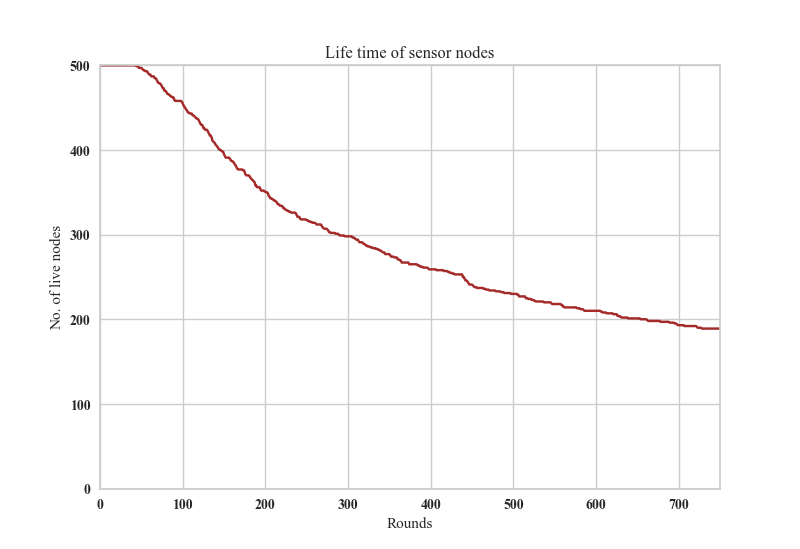
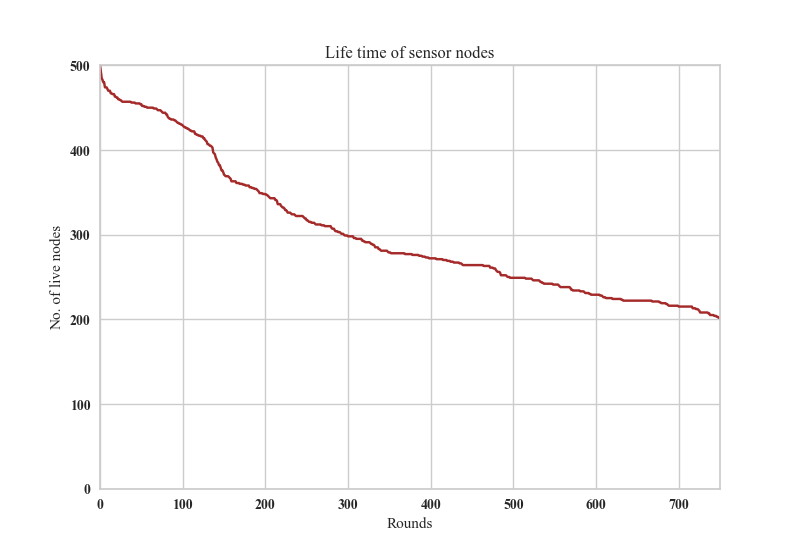
tests 1 complete

diff --git a/src/LEACH.py b/src/LEACH.py
@@ -43,7 +43,7 @@ avg_e2edelay_md = []
 
 class LEACHSimulation:
 
-    def __init__(self, n=500):
+    def __init__(self, n=1000):
         self.n = n  # Number of Nodes in the field
 
         self.dead_num = 0  # Number of dead nodes
@@ -130,7 +130,7 @@ class LEACHSimulation:
         self.avg_e2edelay[0] = self.avg_e2edelay[1]
         plt.xlim(left=0, right=self.my_model.rmax)
         plt.ylim(bottom=0, top=1.5)
-        plt.plot(self.avg_e2edelay, color="olive")
+        plt.plot(self.avg_e2edelay, color="brown")
         plt.title(
             "Average End-to-End Delay (Per Round)",
         )
@@ -208,21 +208,21 @@ class LEACHSimulation:
         z_vals = z_vals[: -self.my_model.num_sinks]
 
         ax.scatter(x_vals, y_vals, z_vals, c="b", marker="o", label="Nodes")
-        # ax.scatter(x_vals_ch, y_vals_ch, z_vals_ch, c="olive", marker="x", label="CHs")
+        # ax.scatter(x_vals_ch, y_vals_ch, z_vals_ch, c="brown", marker="x", label="CHs")
 
-        # Plot olive planes at specified heights
+        # Plot brown planes at specified heights
         for height in self.layer_heights:
             x_plane = np.linspace(min(x_vals), max(x_vals), 100)
             y_plane = np.linspace(min(y_vals), max(y_vals), 100)
             x_plane, y_plane = np.meshgrid(x_plane, y_plane)
             z_plane = np.full_like(x_plane, height)
-            ax.plot_surface(x_plane, y_plane, z_plane, alpha=0.1, color="olive")
+            ax.plot_surface(x_plane, y_plane, z_plane, alpha=0.1, color="brown")
 
         ax.scatter(
             sink_x_vals,
             sink_y_vals,
             sink_z_vals,
-            c="olive",
+            c="brown",
             marker="^",
             label="Sink Nodes",
         )
@@ -514,7 +514,7 @@ class LEACHSimulation:
 
                     # nearest_receiver = self.find_valid_receiver_5(sender)
                     # nearest_receiver = self.find_nearest_sink(sender)
-                    nearest_receiver = self.find_valid_receiver_7(sender)
+                    nearest_receiver = self.find_valid_receiver_2(sender)
                     self.rcd_sink[round_number] += 1
 
                     # print("Nearest receiver:", nearest_receiver)
@@ -1075,18 +1075,18 @@ class LEACHSimulation:
             node
             for node in self.Sensors
             if node.zd >= sender.zd
-            and node.type == "C"
+            and node.type == "N"
             and node.id != sender.id
-            and node.layer_number == sender.layer_number + 1
+            and node.zd >= sender.zd 
             and node.E > 0
         ]
 
         # Implement Selction Function
         optimal_receiver = None
         min_value = float("inf")  # Initialize with infinity
-        alpha = 1
-        beta = 0.0
-        gamma = 0.0
+        alpha = 0.0
+        beta = 0.5
+        gamma = 0.5
         base_distance = self.my_model.z * sqrt(3) / 5
         for receiver in receivers:
             depth_diff = abs(sender.zd - receiver.zd) / abs(self.my_model.z)
@@ -1112,8 +1112,7 @@ class LEACHSimulation:
         receivers = [
             node
             for node in self.Sensors
-            if node.hop_count < sender.hop_count
-            and node.type == "C"
+            if  node.type == "N"
             and node.id != sender.id
             and node.zd > sender.zd
             and node.E > 0
@@ -1147,7 +1146,7 @@ class LEACHSimulation:
             node
             for node in self.Sensors
             if node.hop_count == sender.hop_count
-            and node.type == "C"
+            and node.type == "N"
             and node.id != sender.id
             and node.zd > sender.zd
             and node.E > 0

diff --git a/comp_graph.py b/comp_graph.py
@@ -1,0 +1,84 @@
+import matplotlib.pyplot as plt
+plt.rcParams['font.family'] = 'Times New Roman'
+plt.rcParams['font.weight'] = 'bold'
+# Data for dead nodes
+nodes = [250, 500, 750, 1000]
+dead_EECRAP = [85, 132, 153, 272]
+dead_Mine_MOT = [42, 42, 44, 45]
+dead_EEGNBR = [62, 143, 178, 231]
+dead_DVOR = [65, 216, 337, 374]
+dead_DBR = [146, 311, 322, 452]
+
+plt.figure(figsize=(10, 6))
+
+plt.plot(nodes, dead_EECRAP, marker='o', label='EECRAP')
+plt.plot(nodes, dead_Mine_MOT, marker='o', label='My Algo')
+plt.plot(nodes, dead_EEGNBR, marker='o', label='EEGNBR')
+plt.plot(nodes, dead_DVOR, marker='o', label='DVOR')
+plt.plot(nodes, dead_DBR, marker='o', label='DBR')
+
+plt.title('Dead Nodes vs. Number of Total Nodes')
+plt.xlabel('Number of Total Nodes')
+plt.ylabel('Dead Nodes')
+plt.grid(True)
+plt.legend()
+plt.xticks(nodes)
+
+# Adding data points
+for i in range(len(nodes)):
+    plt.text(nodes[i], dead_EECRAP[i], f"{dead_EECRAP[i]}", ha='right', va='bottom')
+    plt.text(nodes[i], dead_Mine_MOT[i], f"{dead_Mine_MOT[i]}", ha='right', va='bottom')
+    plt.text(nodes[i], dead_EEGNBR[i], f"{dead_EEGNBR[i]}", ha='right', va='bottom')
+    plt.text(nodes[i], dead_DVOR[i], f"{dead_DVOR[i]}", ha='right', va='bottom')
+    plt.text(nodes[i], dead_DBR[i], f"{dead_DBR[i]}", ha='right', va='bottom')
+
+plt.tight_layout()
+plt.show()
+
+# Data for total residual energy
+total_energy_EECRAP = [3035.563508, 3726.321768, 7692.812484, 9019.935624]
+total_energy_Mine_MOT = [2783.527526, 6174.695326, 9492.988209, 13026.09441]
+total_energy_EEGNBR = [2246.143768, 4171.564257, 6503.443889, 8697.360925]
+total_energy_DVOR = [2311.686216, 3687.166787, 5246.702038, 8273.825338]
+total_energy_DBR = [832.6585948, 1686.690131, 3300.293471, 5916.703935]
+
+plt.figure(figsize=(10, 6))
+
+plt.plot(nodes, total_energy_EECRAP, marker='o', label='EECRAP ')
+plt.plot(nodes, total_energy_Mine_MOT, marker='o', label='My Algo ')
+plt.plot(nodes, total_energy_EEGNBR, marker='o', label='EEGNBR ')
+plt.plot(nodes, total_energy_DVOR, marker='o', label='DVOR')
+plt.plot(nodes, total_energy_DBR, marker='o', label='DBR')
+
+plt.title('Total Residual Energy vs. Number of Total Nodes')
+plt.xlabel('Number of Total Nodes')
+plt.ylabel('Total Residual Energy')
+plt.grid(True)
+plt.legend()
+plt.xticks(nodes)
+plt.tight_layout()
+plt.show()
+
+# Data for end-to-end (E2E) delay
+e2e_EECRAP = [0.723879922, 0.889010145, 0.754596213, 0.758335463]
+e2e_Mine_MOT = [0.766660476, 0.786146338, 0.798253394, 0.714908327]
+e2e_EEGNBR = [0.746802995, 0.796901964, 0.857915502, 0.767669789]
+e2e_DVOR = [0.966092277, 1.403363703, 1.153397396, 1.332186072]
+e2e_DBR = [0.770293242, 0.747163901, 0.742610273, 0.803706215]
+
+plt.figure(figsize=(10, 6))
+
+plt.plot(nodes, e2e_EECRAP, marker='o', label='EECRAP ')
+plt.plot(nodes, e2e_Mine_MOT, marker='o', label='My Algo ')
+plt.plot(nodes, e2e_EEGNBR, marker='o', label='EEGNBR ')
+plt.plot(nodes, e2e_DVOR, marker='o', label='DVOR')
+plt.plot(nodes, e2e_DBR, marker='o', label='DBR')
+
+plt.title('End-to-End (E2E) Delay vs. Number of Total Nodes')
+plt.xlabel('Number of Total Nodes')
+plt.ylabel('End-to-End (E2E) Delay')
+plt.grid(True)
+plt.legend()
+plt.xticks(nodes)
+plt.tight_layout()
+plt.show()

diff --git a/base_impl/impl.py b/base_impl/impl.py
@@ -146,18 +146,18 @@ class UnderwaterWSN:
 
         ax.scatter(x_vals, y_vals, z_vals, c='b', marker='o', label='Nodes')
 
-        # Plot olive planes at specified heights
+        # Plot brown planes at specified heights
         for height in layer_heights:
             x_plane = np.linspace(min(x_vals), max(x_vals), 100)
             y_plane = np.linspace(min(y_vals), max(y_vals), 100)
             x_plane, y_plane = np.meshgrid(x_plane, y_plane)
             z_plane = np.full_like(x_plane, height)
-            ax.plot_surface(x_plane, y_plane, z_plane, alpha=0.3, color='olive')
+            ax.plot_surface(x_plane, y_plane, z_plane, alpha=0.3, color='brown')
 
         sink_x_vals = [sink.x for sink in self.sinks]
         sink_y_vals = [sink.y for sink in self.sinks]
         sink_z_vals = [sink.z for sink in self.sinks]
-        ax.scatter(sink_x_vals, sink_y_vals, sink_z_vals, c='olive', marker='^', label='Sink Nodes')
+        ax.scatter(sink_x_vals, sink_y_vals, sink_z_vals, c='brown', marker='^', label='Sink Nodes')
 
         ax.set_xlabel('X-axis')
         ax.set_ylabel('Y-axis')
@@ -291,7 +291,7 @@ class UnderwaterWSN:
         for ch in self.cluster_heads:
             ax.scatter(ch.x, ch.y, ch.z, c='black', marker='x', label=f'Cluster Head {ch.node_id} - Layer {ch.layer_number}')
         for sink in self.sinks:
-            ax.scatter(sink.x, sink.y, sink.z, c='olive', marker='^', label=f'Sink {sink.sink_id}')
+            ax.scatter(sink.x, sink.y, sink.z, c='brown', marker='^', label=f'Sink {sink.sink_id}')
             
         
 

diff --git a/src/LEACH_plotter.py b/src/LEACH_plotter.py
@@ -9,7 +9,7 @@ plt.rcParams['font.family'] = 'Times New Roman'
 plt.rcParams['font.weight'] = 'bold'
 
 
-# todo: add condition to show sink only as olive dot and not both olive and olive
+# todo: add condition to show sink only as brown dot and not both brown and brown
 def start(self):
     print('########################################')
     print('############# plot Sensors #############')
@@ -18,7 +18,7 @@ def start(self):
 
     plt.xlim(left=0, right=self.my_model.rmax)
     plt.ylim(bottom=0, top=self.n)
-    plt.plot(self.alive_sensors, color='olive')
+    plt.plot(self.alive_sensors, color='brown')
     plt.title("Life time of sensor nodes",)
     plt.xlabel('Rounds',)
     plt.ylabel('No. of live nodes',)
@@ -28,7 +28,7 @@ def start(self):
     plt.xlim(left=0, right=self.my_model.rmax)
     plt.ylim(bottom=0, top=self.n * self.my_model.Eo)
     self.sum_energy_left_all_nodes[0]=self.sum_energy_left_all_nodes[1]
-    plt.plot(self.sum_energy_left_all_nodes, color='olive')
+    plt.plot(self.sum_energy_left_all_nodes, color='brown')
     plt.title("Total residual energy",)
     plt.xlabel('Rounds',)
     plt.ylabel('Energy (J)',)

diff --git a/src/LEACH_create_basics.py b/src/LEACH_create_basics.py
@@ -5,7 +5,7 @@ from math import *
 
 class Model:
     def __init__(self, n):
-        self.n = 500
+        self.n = 1000
 
         # coordinates of field
         self.x = 500
@@ -92,10 +92,7 @@ class Model:
         self.layer_heights = [0, -80, -170, -270, -380, -500]
         # Fitness function
 
-        # Layers
-        self.num_layers = 5
-        self.layer_heights = [0, -80, -170, -270, -380, -500]
-        # Fitness function
+        
         self.ff_alpha = 0.5
 
         # Clusters
